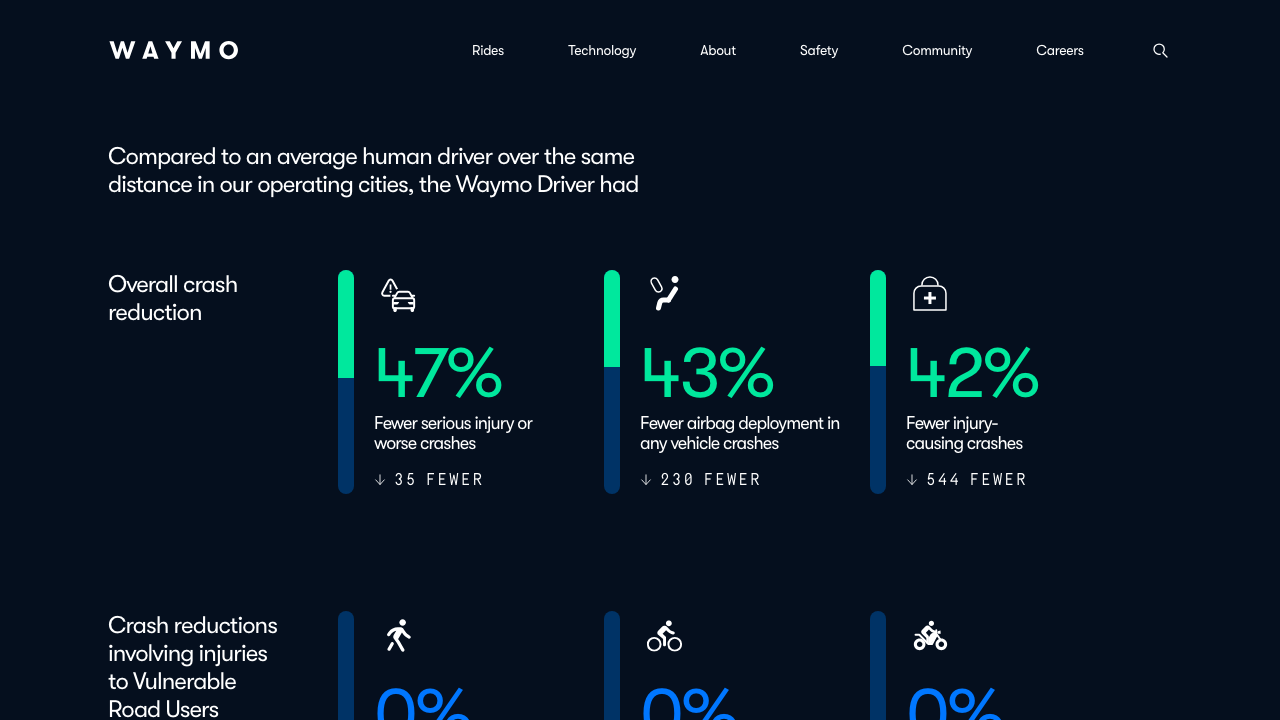
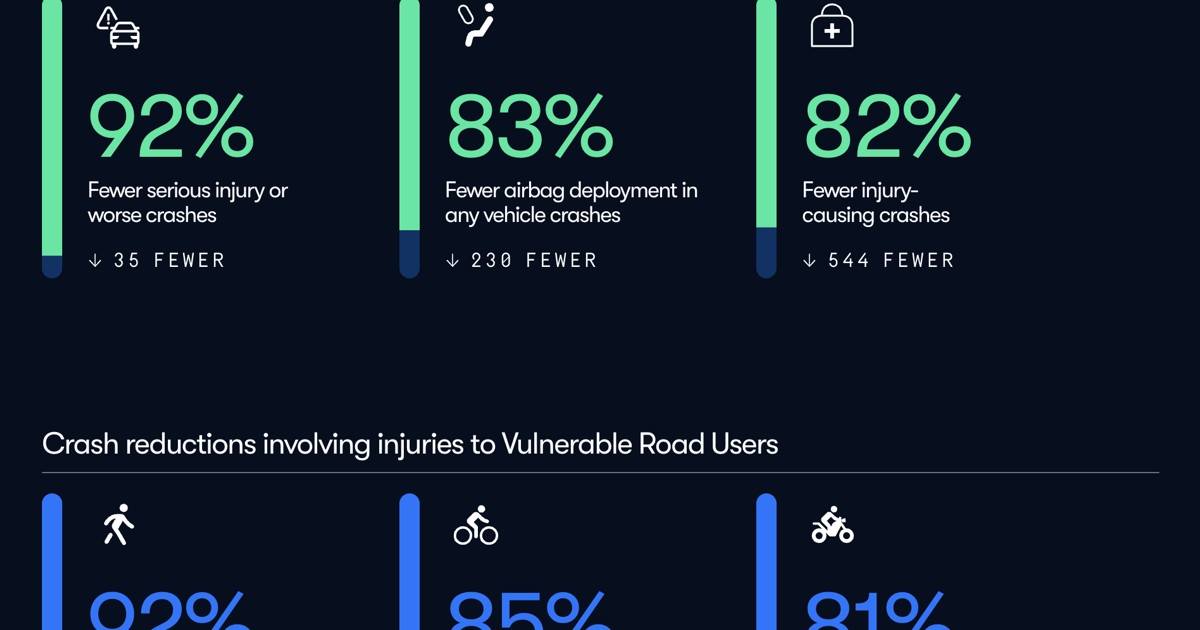
Use user screenshot and update title for Waymo link

diff --git a/app/(blog)/recommended/items/2026-05-07-waymo.md b/app/(blog)/recommended/items/2026-05-07-waymo.md
@@ -1,5 +1,5 @@
 ---
-title: Safety Impact
+title: Autonomous Safety Impact
 url: https://waymo.com/safety/impact/
 date: 2026-05-07
 ---